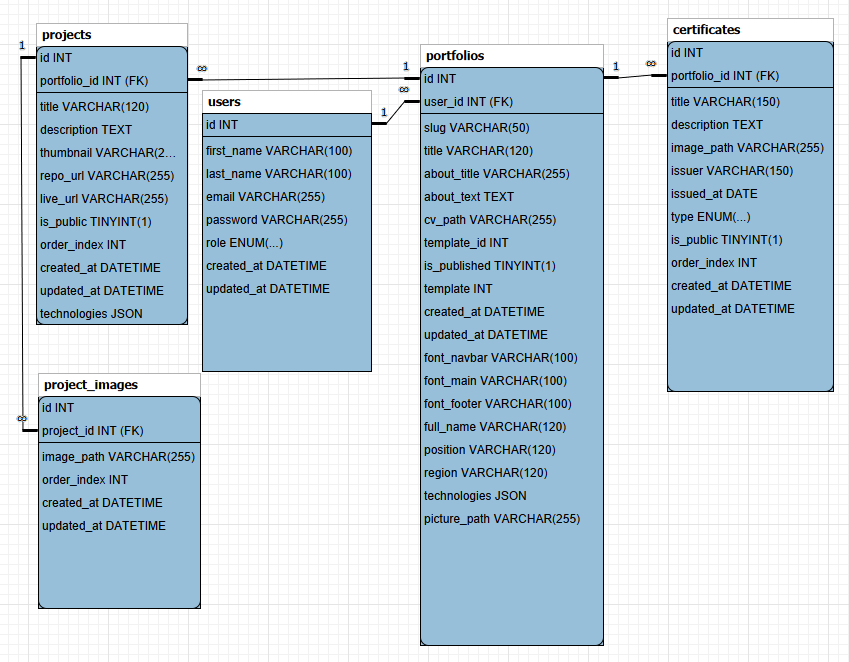
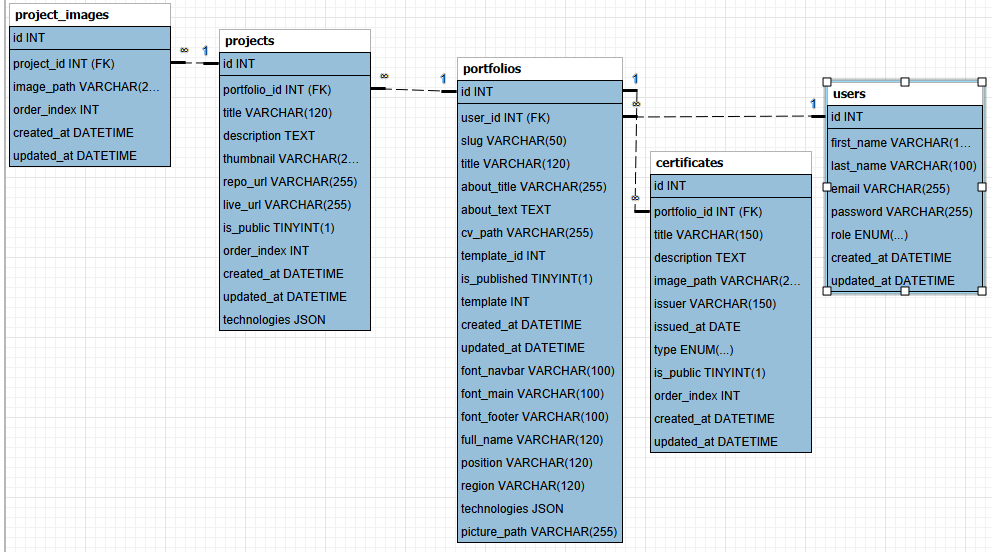
cp5

diff --git a/src/slides/CP5Slide.jsx b/src/slides/CP5Slide.jsx
@@ -3,28 +3,28 @@ import { DatabaseZap, FolderOpen } from 'lucide-react';
 import MLD from "../assets/MPD.png"
 
 export default function CP5Slide() {
+
+    const notes = `5 tables principales : users, portfolios, projects, project_images, et certificates.
+
+La relation centrale est users → portfolios : un utilisateur peut avoir 1 portfolio. Chaque portfolio contient des projets et des certificats — deux entités indépendantes rattachées au portfolio, pas à l'utilisateur directement.
+
+Les projets ont leur propre galerie via project_images, avec un order_index pour contrôler l'ordre d'affichage manuellement.
+
+Points notables du schéma :
+- Le champ slug dans portfolios permet des URLs propres et personnalisées.
+- Les champs technologies sont stockés en JSON dans projects et portfolios — choix délibéré pour éviter une table de jointure technologies et rester flexible.
+- Les champs font dans portfolios permettent la personnalisation typographique par portfolio.
+- is_published et is_public ont comme valuer 1 ou 0 qui agissent comme booléens — contrôle de visibilité à deux niveaux.
+- Le champ role dans users et type dans certificates utilisent des ENUM — les valeurs sont contraintes côté base.
+- 8 fichiers de migration sequelize `
+
     return (
-        <Slide background="linear-gradient(135deg, #183d3d 0%, #93b1a6 100%)">
+        <Slide backgroundImage={MLD} backgroundSize="80%" backgroundPosition="center" backgroundRepeat="no-repeat">
             
-            <div className="flex items-center justify-center gap-3 mb-4">
-                <span className="absolute left-0 bg-purple-500/20 text-purple-400 border border-purple-400/30 px-3 py-1 rounded-full text-sm font-bold">CP5</span>
-                <h3
-                 className="text-3xl font-bold text-white">
-                    Base de données relationnelle
-                 </h3>
-            </div>
-            <Fragment>
-                <div className="flex flex-col justify-center h-[70vh] mt-10">
-                    <span className="text-3xl font-bold text-white">Base de données relationnelle</span>
-                    <img
-                    className='h-full object-contain'
-                    src={MLD}
-                    alt="Model"
-                />
-                </div>
-                
-            </Fragment>
-            <aside className="notes">8 fichiers de migration pour l'évolution du schéma. Mentionner les foreign keys et les ENUM pour les rôles.</aside>
+            
+            <aside className="notes text-lg">
+                <pre><code>{notes}</code></pre>
+            </aside>
         </Slide>
     );
 }

diff --git a/src/slides/CP5Slide copy.jsx b/src/slides/CP5Slide copy.jsx
@@ -1,0 +1,30 @@
+import { Slide, Fragment, Code } from '@revealjs/react';
+import { DatabaseZap, FolderOpen } from 'lucide-react';
+import MLD from "../assets/MPD.png"
+
+export default function CP5Slide() {
+    return (
+        <Slide backgroundImage={MLD} backgroundSize="90%" backgroundPosition="center" backgroundRepeat="no-repeat">
+            
+            <div className="flex items-center justify-center gap-3 mb-4">
+                <span className="absolute left-0 bg-purple-500/20 text-purple-400 border border-purple-400/30 px-3 py-1 rounded-full text-sm font-bold">CP5</span>
+                <h3
+                 className="text-3xl font-bold text-white">
+                    Base de données relationnelle
+                 </h3>
+            </div>
+            <Fragment>
+                {/* <div className="flex flex-col justify-center h-[70vh] mt-10">
+                    <span className="text-3xl font-bold text-white">Base de données relationnelle</span>
+                    <img
+                    className='h-full object-contain'
+                    src={MLD}
+                    alt="Model"
+                />
+                </div> */}
+                
+            </Fragment>
+            <aside className="notes">8 fichiers de migration pour l'évolution du schéma. Mentionner les foreign keys et les ENUM pour les rôles.</aside>
+        </Slide>
+    );
+}
